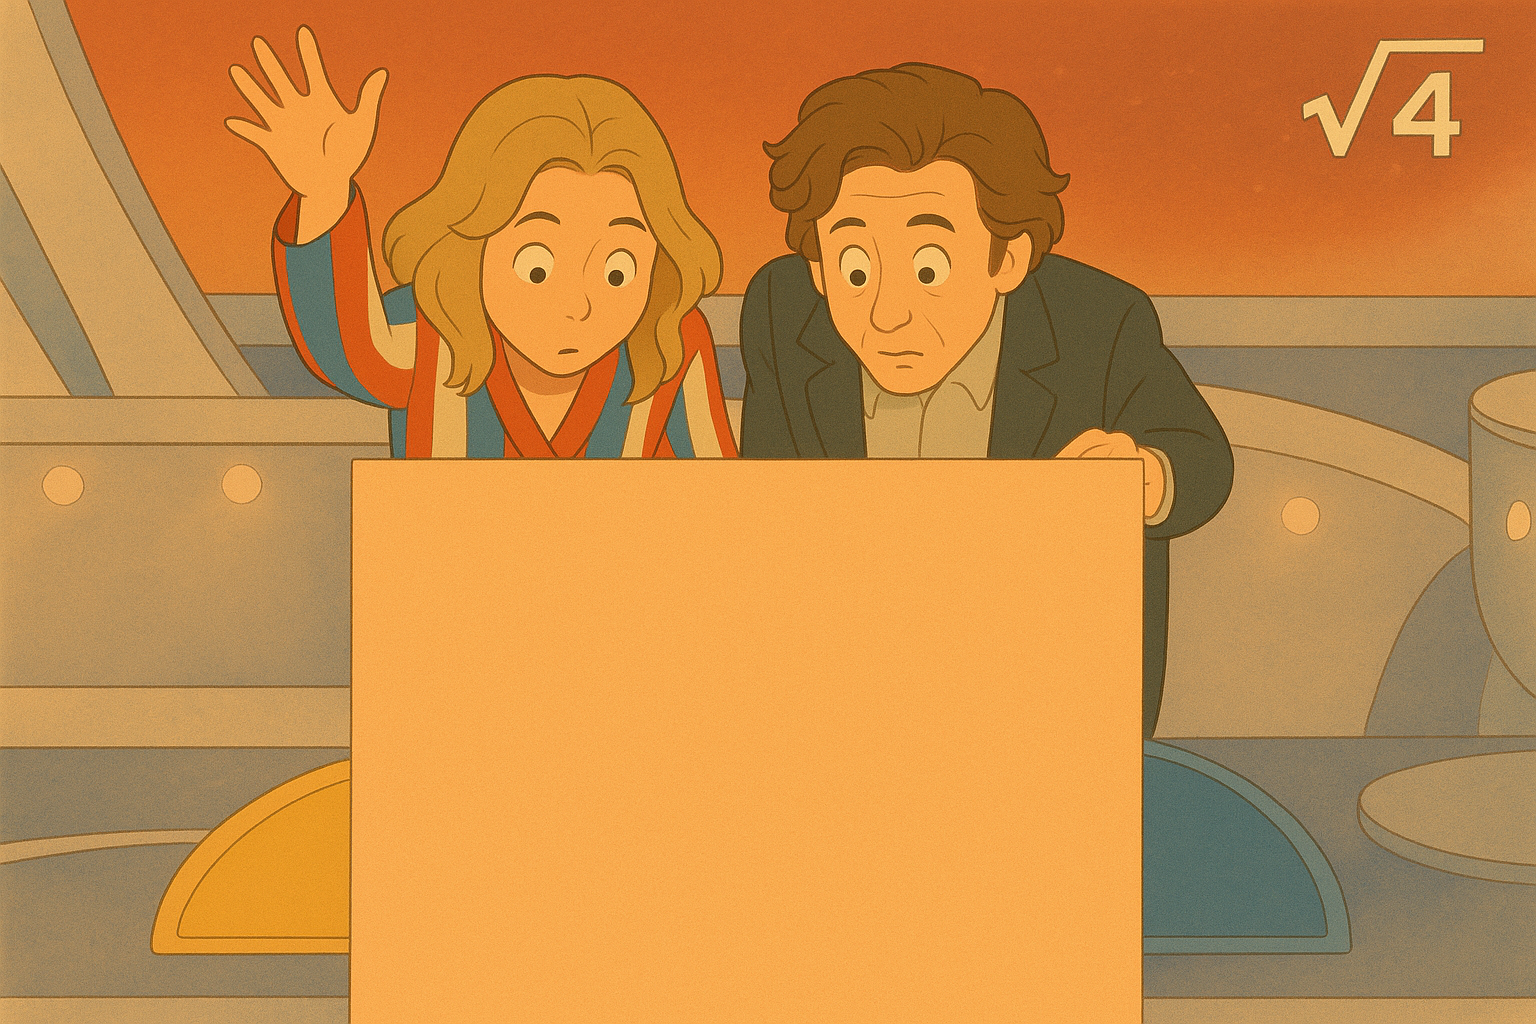
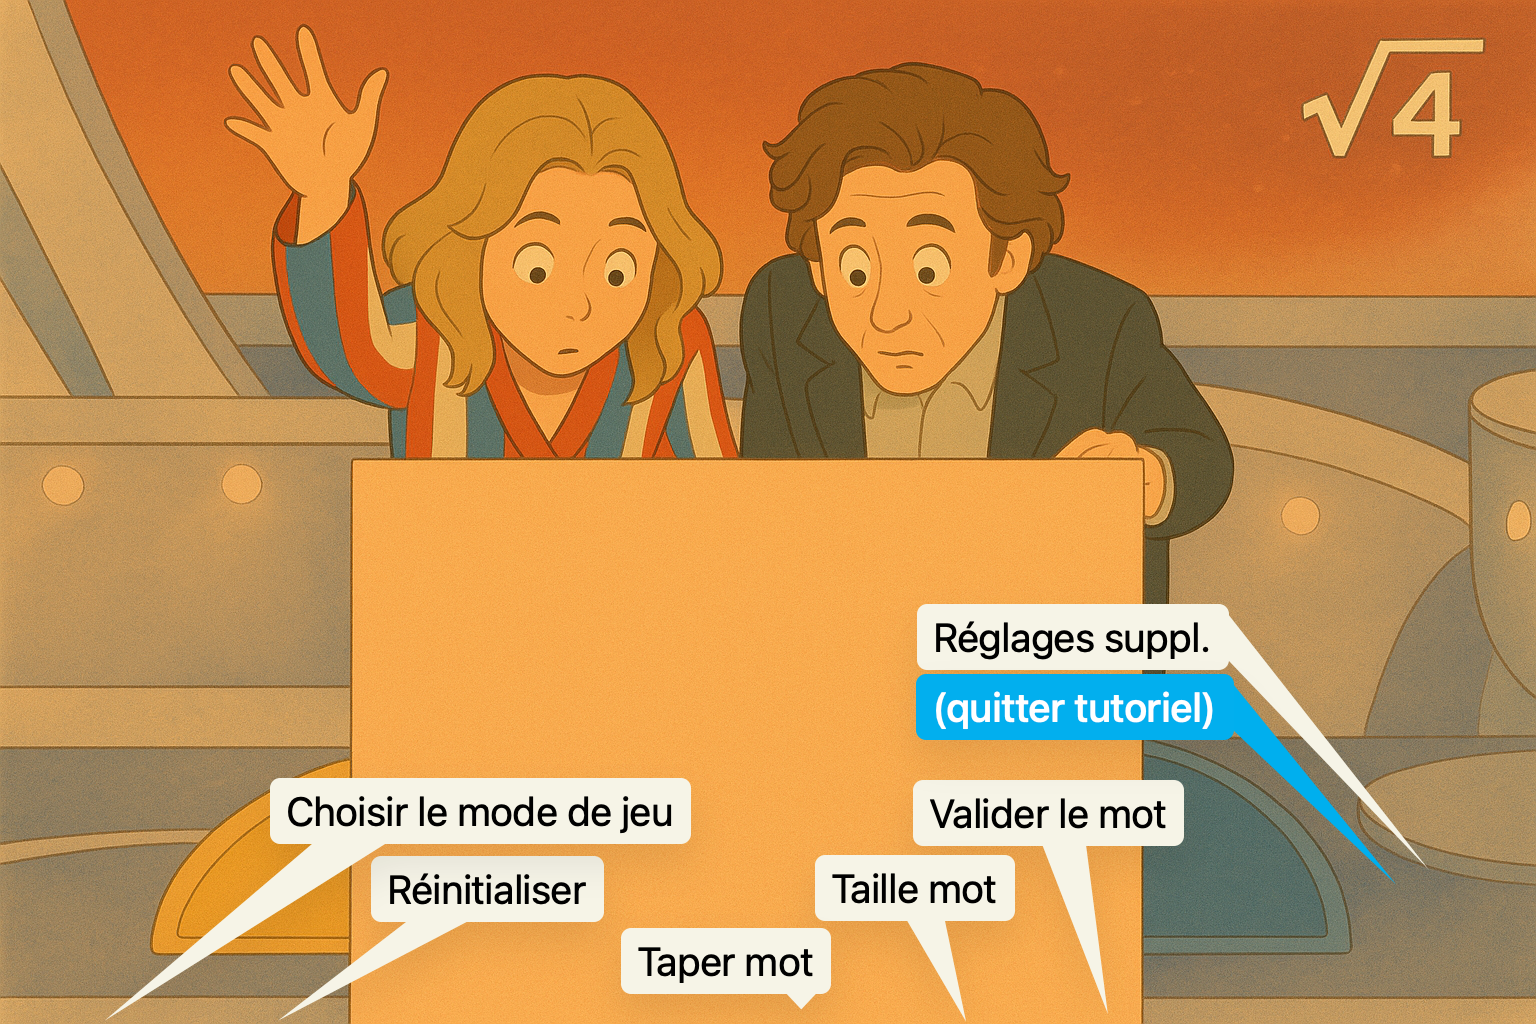
Update tutorial

diff --git a/src/Main.java b/src/Main.java
@@ -7,7 +7,6 @@ import java.awt.GridLayout;
 import java.awt.Image;
 import java.awt.event.ActionEvent;
 import java.awt.event.ActionListener;
-import java.io.FileNotFoundException;
 import javax.swing.ImageIcon;
 import javax.swing.JButton;
 import javax.swing.JFrame;
@@ -16,31 +15,29 @@ import javax.swing.JPanel;
 
 public class Main extends JFrame{
 
-    /**
-     * Menu principal qui est affiché au boot
-     */
+    // MENU PRINCIPAL AFFICHé AU BOOT.
 
     public Main(){
         // paramétrage de base du layout
         super("Motus et bouche cousue");
         setDefaultCloseOperation(JFrame.DISPOSE_ON_CLOSE);
 
-        // chargement de l'image de fond
+        // Image de fond
         ImageIcon icon = new ImageIcon("images/bienvenue.png");
-        Image backgroundImage = icon.getImage();
+        Image arrPlan = icon.getImage();
 
-        // panneau principal avec image de fond
-        JPanel backgroundPanel = new JPanel() {
+        // Panneau principal
+        JPanel arrPanel = new JPanel() {
             @Override
             protected void paintComponent(Graphics g) {
                 super.paintComponent(g);
-                g.drawImage(backgroundImage, 0, 0, getWidth(), getHeight(), this);
+                g.drawImage(arrPlan, 0, 0, getWidth(), getHeight(), this);
             }
         };
-        backgroundPanel.setLayout(new GridLayout(3,1,15,10)); // même layout que l'ancien
-        setContentPane(backgroundPanel);
+        arrPanel.setLayout(new GridLayout(3,1,15,10)); // même layout que l'ancien
+        setContentPane(arrPanel);
 
-        // création des éléments du menu
+        // Menu : création
         JLabel titre = new JLabel("<html><center>Bienvenue dans Motus, une production √4 !</center></html>", JLabel.CENTER);
         titre.setFont(new Font("SansSerif", Font.BOLD, 14));
         titre.setForeground(Color.WHITE); // texte blanc pour la lisibilité
@@ -49,7 +46,7 @@ public class Main extends JFrame{
         JButton bouttonRegles = new JButton("Règles");
         JButton buttonFermer = new JButton("Fermer");
 
-        // uniformisation des tailles de boutons
+        // Boutons : taille
         Dimension buttonSize = new Dimension(100, 30);
         bouttonJouer.setPreferredSize(buttonSize);
         bouttonRegles.setPreferredSize(buttonSize);
@@ -58,7 +55,7 @@ public class Main extends JFrame{
         JPanel bouttonFrame = new JPanel(new FlowLayout(FlowLayout.CENTER,15,0));
         bouttonFrame.setOpaque(false); // pour ne pas cacher l’image de fond
 
-        // paramétrage des boutons
+        // Boutons : paramétrage
         bouttonJouer.addActionListener(clic -> {
             new EcranChargement();
             dispose();
@@ -68,8 +65,8 @@ public class Main extends JFrame{
             @Override
             public void actionPerformed(ActionEvent clic) {
                 try {
-                    // On passe null car on vient du menu principal (pas d'EcranJeu ouvert)
-                    new EcranRegle(null);
+                    // passer la référence à la fenêtre Main
+                    new EcranRegle(Main.this);
                 } catch (Exception e) {
                     dispose();
                     e.printStackTrace();
@@ -79,16 +76,16 @@ public class Main extends JFrame{
 
         buttonFermer.addActionListener(e -> dispose());
 
-        // positionnement des bouttons
+        // Bouttons : position
         bouttonFrame.add(bouttonJouer);
         bouttonFrame.add(bouttonRegles);
         bouttonFrame.add(buttonFermer);
 
-        backgroundPanel.add(titre); 
-        backgroundPanel.add(new JLabel()); // ligne vide pour espacement
-        backgroundPanel.add(bouttonFrame);
+        arrPanel.add(titre); 
+        arrPanel.add(new JLabel()); // permet espacement Titre / Boutons
+        arrPanel.add(bouttonFrame);
 
-        // paramétrage taille et position de la fenêtre
+        // Fenêtre : position et paramétrage
         setSize(400, 300);
         setLocationRelativeTo(null);
         setVisible(true);

diff --git a/src/EcranJeu.java b/src/EcranJeu.java
@@ -44,6 +44,7 @@ public class EcranJeu extends JFrame {
     ArrayList<String> dicoMots = new ArrayList<>();
 
     private boolean tutorielActif = false;
+    private JCheckBoxMenuItem tutorielMenuItem; // Référence à l'item Tutoriel
 
     @SuppressWarnings("unused")
     public EcranJeu(String bgPath) {
@@ -259,6 +260,13 @@ public class EcranJeu extends JFrame {
         modeComboBox.setSelectedIndex(0);
         validerBtn.setEnabled(false);
         progressionLabel.setText("0/6-9"); //ok
+
+        // Forcer le mode tutoriel au premier lancement
+        SwingUtilities.invokeLater(() -> {
+            if (tutorielMenuItem != null && !tutorielMenuItem.isSelected()) {
+                tutorielMenuItem.doClick();
+            }
+        });
     }
 
     private void resetChamp() {
@@ -410,11 +418,12 @@ public class EcranJeu extends JFrame {
         themeMenu.add(reel); themeMenu.add(reelHiver);
 
         JCheckBoxMenuItem tutorielItem = new JCheckBoxMenuItem("Tutoriel");
+        tutorielMenuItem = tutorielItem; // Stocker la référence
         tutorielItem.addActionListener(e -> {
             if (!tutorielActif) {
                 // Activer le mode tutoriel
-                grillePanel.setLignes(2);
-                essaisMax = 2;
+                grillePanel.setLignes(1);
+                essaisMax = 1;
                 grillePanel.setColonnes(8); // "TUTORIEL" fait 8 lettres
                 currentBackgroundImage = "images/tutoriel.png";
                 tutorielActif = true;
